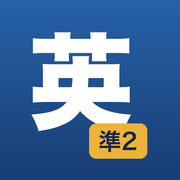
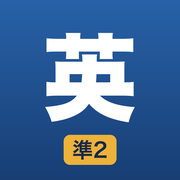
英検準2級 v2：単語1日200語×7日・熟語1日100個×4日で1周（8周）、単語→熟語の順、アイコンの「英」を中央に

Changed region(s): [[0.1667, 0.1667, 0.8333, 0.9167], [0.5, 0.1667, 0.6389, 0.2222]]

diff --git a/eiken-p2/index.html b/eiken-p2/index.html
@@ -91,7 +91,8 @@ section > h2{font-family:var(--mincho);font-size:19px;margin:22px 2px 10px;font-
 .grid{display:grid;grid-template-columns:34px repeat(7,minmax(0,1fr));gap:4px;font-size:12px}
 .grid .h{color:var(--muted);text-align:center;font-size:11px}
 .grid .l{color:var(--muted);display:flex;align-items:center;font-size:12px}
-.grid:not(.wide) .cell{font-size:9.5px;letter-spacing:-.04em}
+.grid.few .cell{aspect-ratio:auto;height:36px}
+.grid.tight .cell{font-size:9.5px;letter-spacing:-.04em}
 .cell{aspect-ratio:1;min-width:0;padding:0;letter-spacing:-.02em;border-radius:7px;background:var(--chip);display:grid;place-items:center;font-size:11px;font-weight:700;color:var(--muted);position:relative}
 .cell.cur{outline:2px solid var(--ai);outline-offset:1px;background:var(--ai-soft);color:var(--ai)}
 .cell.d{color:#fff}
@@ -435,7 +436,7 @@ body.timing .ov{top:var(--sbh,52px);padding-top:8px}
 <script src="idioms.js?v=1"></script>
 <script>
 'use strict';
-const VER = 1;
+const VER = 2;
 /* 単語（1400語）と熟語（400個）は、べつべつの記録で進める。右上の「単語／熟語」で切りかえ（ページを読みなおす）。
    レベル（XP）と使い方を見たかどうかは、2つで共通。 */
 const BOOKKEY = 'eikenp2_book';
@@ -445,11 +446,11 @@ const IDIOM = BOOK === 'i';
 const BNAME = IDIOM ? '熟語' : '単語';
 const W = ((IDIOM ? window.EIKEN_IDIOMS : window.EIKEN_WORDS) || []).map((x, i) => ({ ...x, i, s: x.s || [], d: x.d || [] }));
 const N = W.length;
-const PER = 50;                          // 1日の語数
-const DAYS = Math.ceil(N / PER);         // 1周の日数（単語1400語なら28日・熟語400個なら8日）
+const PER = IDIOM ? 100 : 200;           // 1日の数（単語200語・熟語100個）
+const DAYS = Math.ceil(N / PER);         // 1周の日数（単語1400語なら7日・熟語400個なら4日）
 let LAPS = 4, TOTAL = DAYS * 4;          // 周回数は設定で変えられる（setLaps）
 const GAPS = [1, 3, 7];                  // リマインド：まちがえた翌日 → 3日後 → 7日後 → 卒業
-const KEY = 'eikenp2_' + BOOK + '_v1';
+const KEY = 'eikenp2_' + BOOK + '_v2';   // v2：1日の数を変えたので記録を分けた
 const COMMON = 'eikenp2_common';
 const NO_W = IDIOM ? 3 : 4;              // 音声ファイルの番号の桁数
 const AUD = 'audio/' + BOOK + '/';
@@ -471,7 +472,7 @@ function clock(t){ t = Math.floor(t); return Math.floor(t/60) + ':' + String(t%6
 
 /* ===================== 保存 ===================== */
 let S;
-function blank(){ return { v:1, start: today(), cfg:{ dir:'w2m', voice:true, rate:1, pitch:1.1, voiceName:'', voiceMode:'ai', aRate:1, studyMin:10, laps: IDIOM ? 8 : 4, autoSpk:true }, w:{}, days:{}, tests:[], study:[], timer:null, xp:0, xpDay:{}, guideSeen:false }; }
+function blank(){ return { v:1, start: today(), cfg:{ dir:'w2m', voice:true, rate:1, pitch:1.1, voiceName:'', voiceMode:'ai', aRate:1, studyMin: IDIOM ? 20 : 30, laps: 8, autoSpk:true }, w:{}, days:{}, tests:[], study:[], timer:null, xp:0, xpDay:{}, guideSeen:false }; }
 function load(){
   try{ S = JSON.parse(localStorage.getItem(KEY)) || blank(); }catch(e){ S = blank(); }
   const b = blank();
@@ -482,14 +483,25 @@ function load(){
   let c = null; try{ c = JSON.parse(localStorage.getItem(COMMON)); }catch(e){}
   if(c){ S.xp = c.xp || 0; S.xpDay = c.xpDay || {}; S.guideSeen = !!c.guideSeen; }
   if(S.xp == null) S.xp = 0;
+  // まだ何も始めていないうちは、開始日を「今日」に合わせる（熟語は単語のあとに始めるので、はじめて取り組んだ日からの計画にする）
+  if(!S.startSet && !S.tests.length && !S.study.length && !Object.keys(S.days).length) S.start = today();
   setLaps(S.cfg.laps);
+}
+/* 単語の進み具合（熟語の「今日」で、単語を完走したかを見る） */
+function wordsProgress(){
+  try{
+    const w = JSON.parse(localStorage.getItem('eikenp2_w_v2')) || {};
+    const total = 7 * ((w.cfg && w.cfg.laps) || 8);
+    return { done: Object.keys(w.days || {}).length, total };
+  }catch(e){ return { done:0, total:56 }; }
 }
 function setLaps(n){ LAPS = Math.max(1, Math.min(10, +n || 4)); TOTAL = DAYS * LAPS; }
 function save(){ try{ localStorage.setItem(KEY, JSON.stringify(S)); localStorage.setItem(COMMON, JSON.stringify({ xp:S.xp, xpDay:S.xpDay, guideSeen:S.guideSeen })); }catch(e){} }
 function ws(i){ return S.w[i] || (S.w[i] = { c:0, x:0, sk:0, st:0, due:'' }); }
 load();
 
-/* ===================== 計画（1日50語。単語は28日・熟語は8日で1周。周回数は設定で） ===================== */
+/* ===================== 計画（単語は1日200語×7日、熟語は1日100個×4日で1周。8周＝単語は56日・熟語は32日）
+   単語を完走してから熟語に進む流れ。熟語の開始日は、はじめて熟語を開いた日（設定で変えられる）。 ===================== */
 function plan(n){
   const lap = Math.floor(n / DAYS) + 1, d = n % DAYS + 1;
   const from = (d-1) * PER, to = Math.min(N, d * PER);
@@ -599,7 +611,7 @@ function openLevel(){
       <div class="dim">${x.cur} / ${x.need} XP　・　次のレベルまで あと <b>${x.need - x.cur} XP</b></div></div>
     <h3>XP のもらい方</h3>
     <table class="xprules">${XP_RULES.map(([t, n]) => `<tr><td>${t}</td><td class="r">+${n} XP</td></tr>`).join('')}</table>
-    <p class="dim" style="margin:8px 0 0">例：覚える時間10分＋テスト50問（45問正解）＋その日のクリア → 10 + 90 + 20 = <b>120 XP</b></p>
+    <p class="dim" style="margin:8px 0 0">例：覚える時間30分＋テスト200問（180問正解）＋その日のクリア → 30 + 360 + 20 = <b>410 XP</b></p>
     <h3>ランク</h3>
     <p class="dim" style="margin:0 0 8px">レベルが上がると、ランクが英検の級で上がっていきます。単語と熟語の XP は合計です。</p>
     <div class="ranks">${RANKS.map(([m, t], k) => { const nx = RANKS[k+1]; const now = x.lv >= m && (!nx || x.lv < nx[0]); return `<span class="${now ? 'now' : x.lv >= m ? 'done' : ''}">Lv.${m} ${t}</span>`; }).join('')}</div>
@@ -615,7 +627,8 @@ function renderToday(){
   let hero;
   if(n >= TOTAL){
     hero = `<div class="hero"><div class="lap">${LAPS}周</div><div class="big">完走しました</div>
-      <div class="range">${N}${IDIOM ? '個' : '語'} × ${LAPS}周、おつかれさまでした。シャッフルテストで仕上げましょう。</div></div>`;
+      <div class="range">${N}${IDIOM ? '個' : '語'} × ${LAPS}周、おつかれさまでした。${IDIOM ? 'シャッフルテストで仕上げましょう。' : '次は熟語です。'}</div>
+      ${IDIOM ? '' : '<div class="steps"><button class="step main" id="goIdiom"><span class="n">→</span><span class="t">熟語400に進む<small>1日100個 × 4日で1周</small></span></button></div>'}</div>`;
   }else{
     const p = plan(n), lag = lagOf(n);
     const doneToday = lag < 0;   // 今日の分はもう終わっていて、次の日を表示している
@@ -635,7 +648,11 @@ function renderToday(){
   const remind = `<div class="card remind"><div class="num">${due.length}<small>語</small></div>
     <div style="flex:1"><h3>リマインドテスト</h3><div class="dim">${due.length ? 'まちがえた' + BNAME + 'が、今日もどってきています' : '今日のリマインドはありません'}<br>まちがえた翌日 → 3日後 → 1週間後</div></div>
     ${due.length ? '<button class="btn shu" style="width:auto;padding:12px 16px" id="goRemind">解く</button>' : ''}</div>`;
-  el.innerHTML = hero + lvCardHTML() + remind + `<h2>計画（1日${PER}${IDIOM ? '個' : '語'} × ${DAYS}日 × ${LAPS}周 ＝ ${TOTAL}日）</h2><div class="card">${gridHTML()}</div>`;
+  const wp = IDIOM ? wordsProgress() : null;
+  const order = wp && wp.done < wp.total && !S.tests.length ? `<div class="card" style="border-color:var(--gold);background:var(--gold-soft)"><h3>おすすめの順番：単語 → 熟語</h3>
+    <div class="dim">単語を完璧に覚えてから熟語に進むと、熟語の例文もすっと読めます。いまの単語は <b>${wp.done} / ${wp.total}日</b>。</div>
+    <button class="btn sub" id="backWords" style="margin-top:10px">単語にもどる</button></div>` : '';
+  el.innerHTML = order + hero + lvCardHTML() + remind + `<h2>計画（1日${PER}${IDIOM ? '個' : '語'} × ${DAYS}日 × ${LAPS}周 ＝ ${TOTAL}日）</h2><div class="card">${gridHTML()}</div>`;
   if(n < TOTAL){
     const p = plan(n);
     $('#stStudy').onclick = () => openStudy(n);
@@ -645,6 +662,8 @@ function renderToday(){
     $('#stTest').onclick = () => testOrStudy(n);
   }
   if($('#goRemind')) $('#goRemind').onclick = startRemind;
+  if($('#goIdiom')) $('#goIdiom').onclick = () => switchBook('i');
+  if($('#backWords')) $('#backWords').onclick = () => switchBook('w');
   $('#lvCard').onclick = openLevel;
   bindGrid(el);
 }
@@ -657,11 +676,11 @@ function gridHTML(){
     return `<button class="cell ${n === cur ? 'cur' : ''} ${p.date < t ? 'late' : ''}" data-n="${n}">${md(p.date)}</button>`;
   };
   let h;
-  if(DAYS <= 8){   // 熟語（8日で1周）：横に Day、縦に周
-    h = `<div class="grid" style="grid-template-columns:30px repeat(${DAYS},minmax(0,1fr));gap:3px"><div></div>`;
+  if(DAYS <= 8){   // 横に Day、縦に周（単語は7日・熟語は4日で1周）
+    h = `<div class="grid ${DAYS > 7 ? 'tight' : DAYS < 6 ? 'few' : ''}" style="grid-template-columns:30px repeat(${DAYS},minmax(0,1fr));gap:3px"><div></div>`;
     for(let d=1; d<=DAYS; d++) h += `<div class="h">Day${d}</div>`;
     for(let l=0; l<LAPS; l++){ h += `<div class="l">${l+1}周</div>`; for(let d=0; d<DAYS; d++) h += cell(l*DAYS + d); }
-  }else{           // 単語（28日で1周）：周ごとに 7列 × 4段
+  }else{           // 1周が長いとき：周ごとに 7列で折り返す
     h = '<div class="grid wide">';
     for(let l=0; l<LAPS; l++){ h += `<div class="lapt">第${l+1}周（Day1〜${DAYS}）</div>`; for(let d=0; d<DAYS; d++) h += cell(l*DAYS + d); }
   }
@@ -1309,8 +1328,8 @@ function renderSet(){
     <div class="card set">
       <label>${BNAME}の開始日</label><input type="date" id="sStart" value="${S.start}">
       <label style="margin-top:12px">何周する？</label>
-      <div class="seg" id="sLaps">${(IDIOM ? [4,6,8] : [2,3,4,6]).map(n => `<button class="${LAPS===n?'on':''}" data-n="${n}">${n}周</button>`).join('')}</div>
-      <p class="dim" style="margin:8px 0 0">1日${PER}${IDIOM ? '個' : '語'} × ${DAYS}日 = 1周。${LAPS}周で <b>${TOTAL}日</b>。この日から始めると、完走予定は <b>${md(end)}(${wd(end)})</b> です。英検の日から逆算して決めましょう。</p></div>
+      <div class="seg" id="sLaps">${[4,6,8,10].map(n => `<button class="${LAPS===n?'on':''}" data-n="${n}">${n}周</button>`).join('')}</div>
+      <p class="dim" style="margin:8px 0 0">1日${PER}${IDIOM ? '個' : '語'} × ${DAYS}日 = 1周。${LAPS}周で <b>${TOTAL}日</b>。この日から始めると、完走予定は <b>${md(end)}(${wd(end)})</b> です。${IDIOM ? '熟語は、単語を完走してから始めるのがおすすめです。' : '8周で約2か月です。'}</p></div>
     <div class="card set"><label>発音</label>
       <div class="seg" id="sAuto"><button class="${S.cfg.autoSpk?'on':''}" data-v="1">自動で鳴らす</button><button class="${!S.cfg.autoSpk?'on':''}" data-v="0">押したときだけ</button></div>
       <p class="dim" style="margin:8px 0 0">カードを出したとき・「英語→意味」の問題で、英語の発音を自動で鳴らします。</p></div>
@@ -1338,7 +1357,7 @@ function renderSet(){
   $$('.gset button').forEach(b => b.onclick = () => openGuide(+b.dataset.g));
   $('#sGuide').onclick = () => openGuide(0);
   $$('#sBook button').forEach(b => b.onclick = () => switchBook(b.dataset.b));
-  $('#sStart').onchange = e => { if(e.target.value){ S.start = e.target.value; save(); renderAll(); renderSet(); toast('開始日を変えました'); } };
+  $('#sStart').onchange = e => { if(e.target.value){ S.start = e.target.value; S.startSet = true; save(); renderAll(); renderSet(); toast('開始日を変えました'); } };
   $$('#sLaps button').forEach(b => b.onclick = () => { S.cfg.laps = +b.dataset.n; setLaps(S.cfg.laps); save(); renderAll(); renderSet(); });
   $$('#sAuto button').forEach(b => b.onclick = () => { S.cfg.autoSpk = b.dataset.v === '1'; save(); renderSet(); });
   $$('#sVoice button').forEach(b => b.onclick = () => { S.cfg.voice = b.dataset.v === '1'; save(); renderSet(); });
@@ -1358,7 +1377,7 @@ function renderSet(){
     }
     if(!('speechSynthesis' in window)){ toast('この端末では読み上げが使えません'); return; }
     speechSynthesis.speak(sayUtter(enHead(W[0]), 'en'));
-    speechSynthesis.speak(sayUtter('いちばん大事な意味は、' + W[0].m.replace(/[〜～~]/g, 'なになに') + '。今日も50' + (IDIOM ? '個' : '語') + '、がんばりましょう！', 'ja'));
+    speechSynthesis.speak(sayUtter('いちばん大事な意味は、' + W[0].m.replace(/[〜～~]/g, 'なになに') + '。今日も' + PER + (IDIOM ? '個' : '語') + '、がんばりましょう！', 'ja'));
   };
   const APPID = 'eikenp2-' + BOOK;
   $('#sExp').onclick = () => {
@@ -1581,14 +1600,14 @@ function guideSlides(){
   return [
     { t:'ようこそ', p:['英検準2級に出る<b>英単語1400語</b>と<b>英熟語400個</b>を、何周もして覚えきるアプリです。','やることは毎日かんたん。<b>覚える → テスト</b> の2つだけ。右上の「単語／熟語」で切りかえます。'],
       v:`<div class="minicard"><b>decide</b><span class="dim">→</span><span style="color:var(--shu);font-weight:700">〜を決める</span></div><div class="minicard"><b>look forward to ~</b><span class="dim">→</span><span style="color:var(--shu);font-weight:700">〜を楽しみに待つ</span></div><div class="dim" style="text-align:center">英検の過去問で確かめて選んだ単語・熟語</div>` },
-    { t:'1日50語ずつ、何周も', p:['単語は<b>28日で1周</b>、熟語は<b>8日で1周</b>。これを何周もくり返します（何周するかは設定で決められます）。','その日にやる範囲は「今日」タブに出ます。遅れても大丈夫。次にやる日から続きが出ます。'],
-      v:`<div class="grid wide">${[0,1,2,3,4,5,6,7,8,9,10,11,12,13].map(d => `<span class="cell ${d<3?'d':''} ${d===3?'cur':''}" style="${d<3?'background:#2E7A57':''}">${d<3?[96,88,92][d]:''}</span>`).join('')}</div><div class="dim" style="text-align:center">…28日で1周</div>` },
+    { t:'単語は2か月で8周', p:['単語は<b>1日200語 × 7日で1周</b>。これを<b>8周（56日・約2か月）</b>くり返します。','単語を完璧に覚えたら、<b>熟語</b>へ。熟語は<b>1日100個 × 4日で1周</b>です。','その日にやる範囲は「今日」タブに出ます。遅れても大丈夫。次にやる日から続きが出ます。'],
+      v:`<div class="grid" style="grid-template-columns:34px repeat(7,minmax(0,1fr))"><div></div>${[1,2,3,4,5,6,7].map(d => `<div class="h">Day${d}</div>`).join('')}${[1,2,3].map(l => `<div class="l">${l}周</div>` + [0,1,2,3,4,5,6].map(d => `<span class="cell ${l===1&&d<3?'d':''} ${l===1&&d===3?'cur':''}" style="${l===1&&d<3?'background:#2E7A57':''}">${l===1&&d<3?[96,88,92][d]:''}</span>`).join('')).join('')}</div><div class="dim" style="text-align:center">…8周まで</div>` },
     { t:'① 覚える時間', p:['「今日」の①を押して、<b>覚える時間を自分で決めます</b>（3分〜、自由に入力も）。','のこり時間は<b>画面のいちばん上</b>に出ます。カード・一覧・1分解説から、好きな方法で覚えましょう。'],
       v:`<div style="background:#1F2A4D;color:#fff;border-radius:12px;padding:10px 14px;display:flex;align-items:center;gap:10px"><b style="font-size:24px">9:42</b><small style="opacity:.8">覚える時間</small><span style="margin-left:auto;font-size:12px;background:rgba(255,255,255,.16);padding:4px 10px;border-radius:99px">一時停止</span></div><div class="minicard">カード　／　一覧（意味をかくせる）　／　1分解説</div>` },
     { t:'発音と1分解説', p:['<b>スピーカーのボタン</b>で、ネイティブの発音が聞けます。カードを出すと自動で鳴ります。','1分解説は、スライドと音声で1つを約30秒で解説。英語はネイティブの声、意味や覚え方は日本語の声です。'],
       v:`<div class="minicard" style="flex-direction:column;align-items:flex-start"><div style="display:flex;align-items:center;gap:8px"><b style="font-size:22px">decide</b><span class="ph">/dɪˈsaɪd/</span><span class="spk">${SPK_SVG}</span></div><span style="color:var(--shu);font-weight:700;border:1.5px solid var(--shu);border-radius:8px;padding:2px 8px">〜を決める</span><span class="dim" style="font-size:12.5px">仲間の語：decision（名）決定</span></div>` },
-    { t:'② テスト', p:['50問の4択テスト。<b>時間と正答率は自動で記録</b>されます。','まちがえたものだけ、すぐにもう一度。「報告用にコピー」で、勉強報告にそのまま貼れます。','慣れてきたら、テストタブの「出題の形式」で<b>聞いて答える</b>・<b>書いて答える</b>・<b>例文の穴埋め</b>にも変えられます。'],
-      v:`<div style="text-align:center"><div style="font-family:var(--mincho);font-weight:700;font-size:44px;color:#2E7A57;line-height:1.1">92<small style="font-size:18px">%</small></div><div class="dim">50問中 46問 正解　・　時間 6分12秒</div></div>` },
+    { t:'② テスト', p:['その日の分の4択テスト（単語200問・熟語100問）。<b>時間と正答率は自動で記録</b>されます。','まちがえたものだけ、すぐにもう一度。「報告用にコピー」で、勉強報告にそのまま貼れます。','慣れてきたら、テストタブの「出題の形式」で<b>聞いて答える</b>・<b>書いて答える</b>・<b>例文の穴埋め</b>にも変えられます。'],
+      v:`<div style="text-align:center"><div style="font-family:var(--mincho);font-weight:700;font-size:44px;color:#2E7A57;line-height:1.1">92<small style="font-size:18px">%</small></div><div class="dim">200問中 184問 正解　・　時間 21分40秒</div></div>` },
     { t:'リマインドテスト', p:['まちがえたものは、<b>翌日 → 3日後 → 1週間後</b>にもどってきます。','3回つづけて正解したら卒業。苦手なものほど何度も出るので、自然に覚えきれます。'],
       v:`<div class="minicard"><b style="color:var(--shu)">✕</b> まちがえた</div><div class="minicard">翌日 → 3日後 → 1週間後 にもう一度</div><div class="minicard"><b style="color:#2E7A57">◯◯◯</b> 3回つづけて正解で卒業</div>` },
     { t:'レベルアップ', p:['覚える・解くたびに <b>XP</b> がたまり、たまると<b>レベルが上がります</b>（単語と熟語の合計）。','ランクは英検の級で上がっていきます。Starter からはじめて、めざせ Master！'],

diff --git a/eiken-p2/sw.js b/eiken-p2/sw.js
@@ -2,7 +2,7 @@
    方針:「ネットワーク優先」。まずネットから最新をとり、とれたものをキャッシュに控える。
    ネットがないときだけキャッシュで動く。キャッシュを先に見る方式にすると
    「直したのに古い画面が出る」事故になるので、ぜったいにしない。 */
-const VER = 'ep2-v1';
+const VER = 'ep2-v2';
 self.addEventListener('install', e => self.skipWaiting());
 self.addEventListener('activate', e => {
   e.waitUntil((async () => {

diff --git a/tools/eiken-icon.py b/tools/eiken-icon.py
@@ -1,6 +1,6 @@
 #!/usr/bin/env python3
 """英検準2級 単熟語 のアイコンを作る（PIL だけ）。
-青の地に、白の「英」を太いゴシックで大きく。右下に金の札「準2」。
+青の地に、白の「英」を太いゴシックで大きく（左右のまん中）。下のまん中に金の札「準2」。
 python3 tools/eiken-icon.py → eiken-p2/ にアイコン4枚と /tmp/eiken-icon-preview.png
 """
 import os
@@ -28,13 +28,16 @@ def draw(size=S, safe=1.0):
     d = ImageDraw.Draw(im)
     k = size / S * safe
     cx, cy = size / 2, size / 2
-    f = ImageFont.truetype(GOTH, int(600 * k))
-    d.text((cx - 50 * k, cy - 50 * k), '英', font=f, fill=WHITE, anchor='mm')
-    w, h = 330 * k, 200 * k
-    x0, y0 = cx + 120 * k, cy + 190 * k
-    d.rounded_rectangle([x0 - w / 2 + 40 * k, y0, x0 + w / 2 + 40 * k, y0 + h], radius=int(40 * k), fill=GOLD)
-    sf = ImageFont.truetype(GOTH6, int(130 * k))
-    d.text((x0 + 40 * k, y0 + h / 2), '準2', font=sf, fill=NAVY, anchor='mm')
+    # 「英」は左右のまん中。字の形（インクの範囲）で中心を合わせる
+    f = ImageFont.truetype(GOTH, int(540 * k))
+    l, t, r, b = d.textbbox((0, 0), '英', font=f, anchor='lt')
+    d.text((cx - (l + r) / 2, cy - 70 * k - (t + b) / 2), '英', font=f, fill=WHITE, anchor='lt')
+    # 金の札「準2」は下のまん中
+    w, h = 300 * k, 170 * k
+    y0 = cy + 255 * k
+    d.rounded_rectangle([cx - w / 2, y0, cx + w / 2, y0 + h], radius=int(36 * k), fill=GOLD)
+    sf = ImageFont.truetype(GOTH6, int(118 * k))
+    d.text((cx, y0 + h / 2), '準2', font=sf, fill=NAVY, anchor='mm')
     return im
 
 
